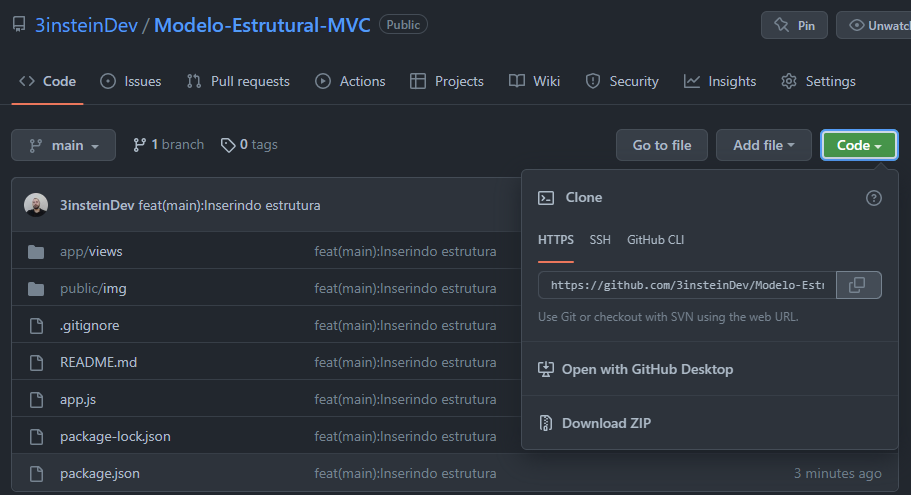
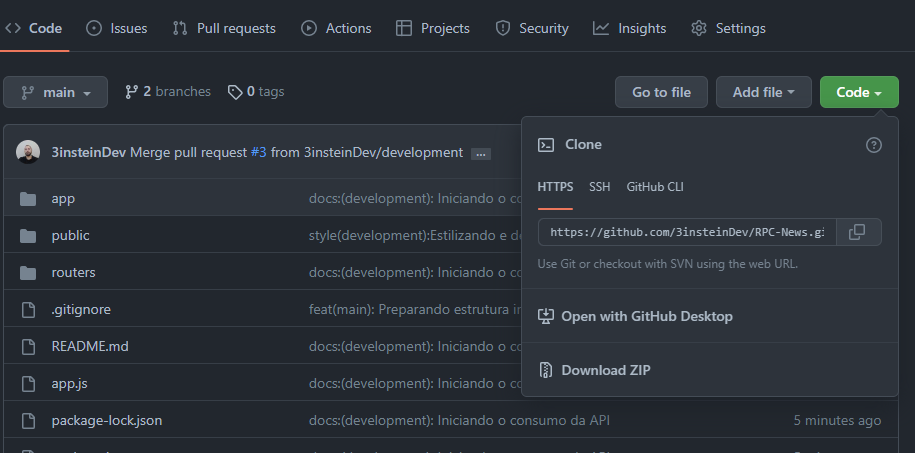
fix(development): Editando o README.md

diff --git a/README.md b/README.md
@@ -2,8 +2,10 @@
 
 ## Objetivo
 
-O objetivo deste Repositório é construir uma Aplicação em Node.js, com a template engine EJS, que consuma uma API que fornece um Objeto contendo a programação do dia escolhido. Foi utilizado as seguintes dependencias:
+O objetivo deste Repositório é construir uma Aplicação que consuma uma API que nos fornece um Objeto contendo a programação do dia escolhido. 
+Além do consumo, fornecer estes dados em um front-end, seguindo um escopo.
 
+Foi desenvolvido em Node.js, com a template engine EJS e as seguintes dependencias:
 <br> * Axios
 <br> * Body-parser
 <br> * Cors
@@ -30,15 +32,15 @@ Para clonar siga os seguintes passos:
 * Use o prompt de comando/ terminal do VSCode e acesse um diretório para o qual deseja clonar
 * Digite git clone (clonar git) e cole a URL que você copiou anteriormente.
 
-git clone https://github.com/3insteinDev/Modelo-Estrutural-MVC.git
+git clone https://github.com/3insteinDev/RPC-News.git
 
 * Após clonado, acesse o diretório pelo terminal, digitando o seguinte comando:
 
-cd ./ESTRUTURA-PARA-PROJETO-COM-MVC
+cd ./RPC-NEWS
 
 
 ### Instalar dependencias
-* Após acessar o diretório Estrutura-para-Projeto-com-MVC, Digite o seguinte comando no terminal:
+* Após acessar o diretório RPC-NEWS, Digite o seguinte comando no terminal:
 
 npm install   ou   npm i
 
@@ -49,15 +51,6 @@ Ao acessar o arquivo package.json, na parte de dependências irá aparecer estas
 </p>
 
 
-## Conteúdo (Diretórios e  Arquivos Iniciais)
-
-<p float="left" align="center">
-  <img src="./public/img/Estrutura-diretorios.png" width="40%" />  
-</p>
-
-<p float="left" align="center">
-  <img src="./public/img/Modelo.png" width="40%" />  
-</p>
 
 ## Observação
-* Após isto Use e Abuse, modifique a estrutura de acordo com a necessidade do seu projeto. Adicione ou retire.
+* Projeto em Andamento ...
